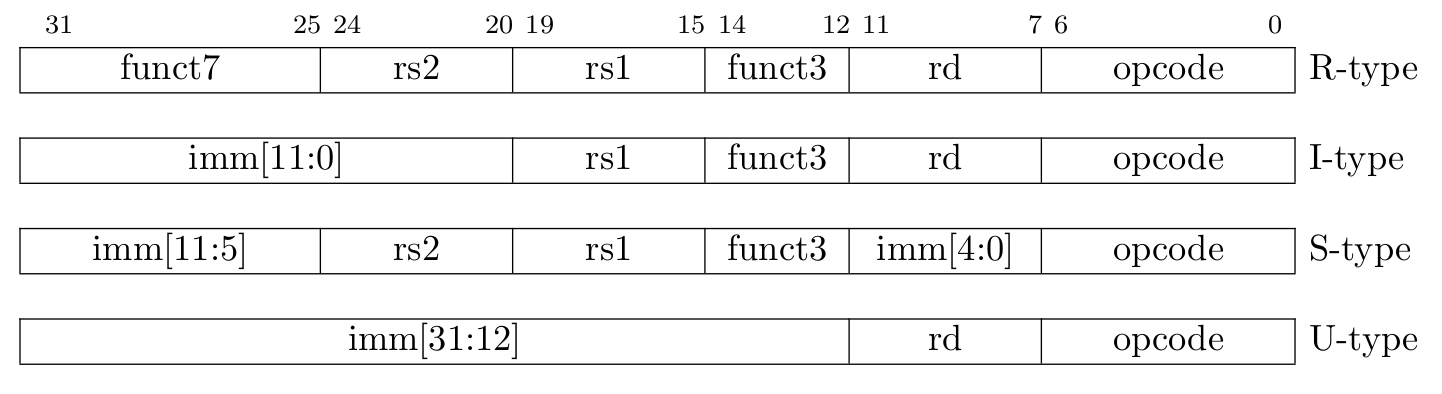
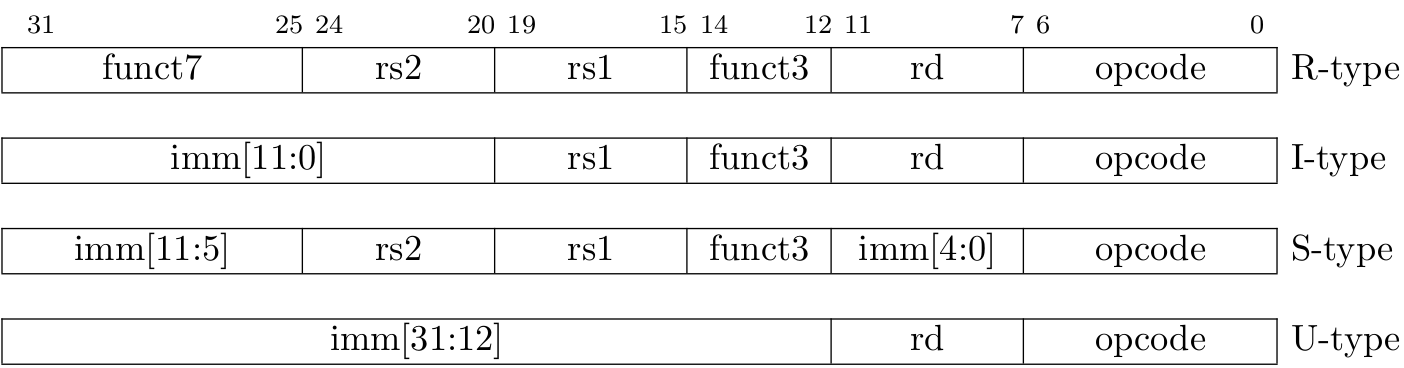
Update docu

diff --git a/documentation/Chapters/RISC.tex b/documentation/Chapters/RISC.tex
@@ -23,54 +23,61 @@ Auch wenn der Begriff \textit{reduced instruction} sich nicht zwangsweise auf di
 
 %----------------------------------------------------------------------------------------
 \section{RISC-V Varianten}
+\label{sec:erweiterung}
 
 \paragraph{Erweiterbarkeit.} Die RISC-V Architektur ist darauf ausgelegt, flexibel erweiterbar zu sein. Die Spezifikation definiert daher mehrere Teilmengen des Befehlssatzes. \cite[p. 4]{RISC}
 
-\paragraph{Mindeststandard.} Um die RISC-V Anforderungen zu erfüllen, muss eine Implementierung zumindest den Basis-Integerbefehlssatz umsetzen (Bezeichnung nach \mbox{RISC-V} Konvention: \textit{I}). Dieser enthält neben Befehlen zur Integerarithmetik, auch Integer load- und store-Befehle, sowie die notwendigen Befehle zur Manipulation des Kontrollfluss.
+\paragraph{Mindeststandard.} Um die RISC-V Anforderungen zu erfüllen, muss eine Implementierung zumindest den Basis-Integerbefehlssatz umsetzen (Bezeichnung nach \mbox{RISC-V} Konvention: \textit{I}). Dieser enthält neben Befehlen zur Integerarithmetik auch Integer load- und store-Befehle, sowie die notwendigen Befehle zur Manipulation des Kontrollfluss.
 
 \paragraph{Erweiterungen.} Die allgemeine als \textit{General Purpose} bezeichnete Architektur enthält neben diesem Mindeststandard auch Befehle für Gleitkommaarithmetik (F) mit Double(D) oder Quad-Präzision (Q), für die Handhabung verschiedener Privilegierungen (P), atomare Befehle für die Verwaltung von Nebenläufigkeit (A) und seit der neusten Version 2.1 auch für Bitmanipulation (B), Vectoroperationen (V) und einigen mehr. \cite[p. 4f.]{RISC}
 
-\paragraph{Verwendetes Subset.} In diesem Projekt wurde sich allerdings darauf beschränkt, eine einfache integerverarbeitende Mikroarchitektur umzusetzen. Als Wortbreite wurden 32bit gewählt. Die Bezeichnung des verwendeten Subsets lautet daher nach RISC-V Konvention \textit{RV32I}. \cite[p. 67ff.]{RISC}
+\paragraph{Umgesetzte Instruktionsmenge.} In diesem Projekt wurde sich allerdings darauf beschränkt, eine einfache integerverarbeitende Mikroarchitektur umzusetzen. Als Wortbreite wurden 32bit gewählt. Die Bezeichnung des verwendeten Subsets lautet daher nach RISC-V Konvention \textit{RV32I}. \cite[p. 67ff.]{RISC}
 %----------------------------------------------------------------------------------------
 
 %----------------------------------------------------------------------------------------
 \section{RV32I}
-Das verwendete Subset besteht aus $47$ verschiedenen Maschineninstruktionen.
+Das verwendete Subset besteht aus insgesamt $47$ Maschineninstruktionen. Neben Instruktionen zur Integerarithmetik, sind dabei Branch-Instruktionen und Speicherzugriffe enthalten.
 
 \subsection{Instruktionsformate}
-RV32I kennt vier verschiedene Typen, in denen Maschineninstruktionen enkodiert sein können: \textit{R-type}, \textit{I-Type}, \textit{S-type} und \textit{U-type} - Befehle. Dabei sind Opcode, sowie Ausgangsregister ($rs1$, $rs2$) und Zielregister ($rd$) der Operationen immer an der gleichen Stelle des Maschinenbefehls kodiert. Diese Einteilung in Instruktionstypen erleichtert die Dekodierung der Instruktionen und führt zu einer überschaubareren Verschaltung.
+RV32I kennt vier verschiedene Typen, in denen Maschineninstruktionen enkodiert sein können: \textit{R-type}, \textit{I-Type}, \textit{S-type} und \textit{U-type} - Befehle, siehe Abbildung \ref{fig:instr_types}. Dabei sind Opcode, sowie Ausgangsregister ($rs1$, $rs2$) und Zielregister ($rd$) der Operationen immer an der gleichen Stelle des Maschinenbefehls kodiert. Sofern ein konstanter Wert (Immediate) in der Instruktion enthalten ist, ist dieser jeweils in den höchstwertigen Bits der Instruktion enkodiert. Diese Einteilung in Instruktionstypen erleichtert die Dekodierung der Instruktionen und führt zu einer simpleren Verschaltung.
 
 \begin{figure} [ht]
   \centering
-  \includegraphics[width=0.95\textwidth]{Figures/instruction_formats}
+  \includegraphics[width=\textwidth]{Figures/instruction_formats}
   \caption{Instruktionsformate. Quelle: \citep[S. 11]{RISC}}
   \label{fig:instr_types}
 \end{figure}
 
-\paragraph{Immediate Varianten?}
-...
 
-\paragraph{R-Type.} Als R-Type sind Register-Instruktionen enkodiert, bei denen beide Operanden in Registern liegen.
+\begin{itemize}  
+\item Als R-Type sind Register-Instruktionen enkodiert, bei denen beide Operanden in Registern liegen. 
+\item Die I-Type-Kodierung ist für Instruktionen vorgesehen, bei denen ein konstanter Wert (\textit{Immediate}) mit einem Wert im Register verrechnet wird.
+\item U-Type Befehle sind bedingte und unbedingte Sprungbefehle.
+\item Der S-Type wird für schreibende Zugriffe auf den Speicher (store) verwendet. 
+\end{itemize}
 
-\paragraph{I-Type.} Die I-Type-Kodierung ist für Instruktionen vorgesehen, bei denen ein konstanter Wert (\textit{Immediate}) mit einem Wert im Register verrechnet wird.
+\subsection{Immediate-Varianten.} Außerdem existieren mehrere Varianten, um Immediates aus den Instruktionen zu Werten zu dekodieren, siehe Abbildung \ref{fig:immediates}. Diese unterschiedlichen Kodierungen sind ebenfalls so gewählt, um die Überschneidungen der einzelnen Formate zu maximieren und dadurch die Implementierung zu vereinfachen. \cite[S. 11f.]{RISC} 
 
-\paragraph{S-Type.}
+\begin{figure} [ht]
+  \centering
+  \includegraphics[width=\textwidth]{Figures/immediates}
+  \caption{Immediateenkodierungen. Quelle: \citep[S. 12]{RISC}}
+  \label{fig:immediates}
+\end{figure}
 
-\subsection{Maschineninstruktionen}
-Die in dieser Arbeit umgesetzten Instruktionen des RV32I-Standards können im einzelnen der Tabelle in Anhang \ref{Maschinenbefehle} entnommen werden.
+\subsection{Einzelne Instruktionen}
+Die in dieser Arbeit umgesetzten Instruktionen des RV32I-Standards können im einzelnen der Tabelle in Anhang \ref{Maschinenbefehle} entnommen werden. Im Folgenden sollen lediglich ein Überblick über Instruktionen geschaffen werden und ein Befehl exemplarisch im Detail dargestellt werden.
 
-Im folgenden sollen lediglich einige Instruktionen exemplarisch dargestellt werden.
-
-\subsubsection{Integerverarbeitung}
+\paragraph{Integerarithmetik.}
 Integer verarbeitende Instruktionen bestehen aus solchen, die eine Operation auf zwei Registerwerten ausführen (als R-Type kodiert) oder eine Operation auf einem Registerwert und einem Immediate (I-Type) ausführen. Das Operationsergebnis wird jeweils im Zielregister ($rd$) gespeichert.
 
 In \ref{fig:addi} ist exemplarisch der \textit{ADDI}-Befehl zu sehen. Dieser soll einen im Maschinenbefehl kodierten Immediate-Wert mit einem einem Wert in einem bestimmten Register addieren und das Ergebnis anschließend in einem Zielregister speichern.
  
-Dafür ist in der Maschineninstruktion der Opcode $0010011$ (bits $6 - 0$) kodiert, der die Information enthält, dass eine Immediateoperation durchgeführt werden soll. Die bits $14-12$ kodieren die \textit{funct3}, die die auszuführende Rechenoperation beschreibt (hier: $000$ für die Addition). Ferner ist das Zielregister $rd$, das Ausgangsregister $rs1$ und der Immediate-Wert (bit $31 - 20$) im Maschinenbefehl selbst kodiert.
+Dafür ist in der Maschineninstruktion der Opcode $0010011$ (bits $6 - 0$) kodiert, der die Information enthält, dass eine Immediateoperation durchgeführt werden soll. Die bits 14-12 kodieren die \textit{funct3}, die die auszuführende Rechenoperation beschreibt (hier: $000$ für die Addition). Ferner ist das Zielregister $rd$, das Ausgangsregister $rs1$ und der Immediate-Wert (bit $31 - 20$) im Maschinenbefehl selbst kodiert.
 
 \begin{figure} [ht]
   \centering
-  \includegraphics[width=0.95\textwidth]{Figures/ADDI}
+  \includegraphics[width=\textwidth]{Figures/ADDI}
   \caption{ADDI-Instruktion.}
   \label{fig:addi}
 \end{figure}
@@ -81,10 +88,10 @@ Es ist außerdem der spezielle \textit{LUI}-Befehl vorgesehen, der benötigt wir
 
 TODO: Register-Register
 
-\subsubsection{Kontrollfluss}
+\paragraph{Kontrollfluss.}
 Um die Reihenfolge, mit der die Maschinenbefehle ausgeführt werden zu manipulieren, existieren bedingte (\textit{BEQ, BNE, BLT, BGE}) und unbedingte (\textit{JAL, JALR}) Sprungbefehle.
 
-\subsubsection{Speicherzugriffe}
+\paragraph{Speicherzugriffe.}
 Da RISC-V als load-store-Architektur entworfen ist, sind Zugriffe auf den Speicher nur in speziellen load/store-Befehlen vorgesehen. Die \textit{load}-Instruktion lädt einen Wert aus dem Speicher in ein Register, die \textit{store}-Instruktion schreibt einen Registerinhalt an eine bestimmte Speicheradresse. RISC-V erlaubt dabei Zugriffe auf Bytes, Halfwords und Words.
 %----------------------------------------------------------------------------------------
 

diff --git a/documentation/Chapters/Ergebnis.tex b/documentation/Chapters/Ergebnis.tex
@@ -53,7 +53,14 @@ Register. Weitere Informationen hierfür sind in Kapitel
 \ref{sec:ram_register_schreibvorgaenge} zu finden.
 
 \section{Ausblick}
-%\TODO: einführende Worte
+
+Das Ziel dieses Projekts war, einfache Berechnungen auf einer eigenen Hardwareimplementierung ausführen zu können. Dieses Mindestziel wurde erreicht. Darüber hinaus sind jedoch mehrere Ansätze denkbar, das entwickelte CPU-Design fortzuführen. Diese sind unterteilbar in solche, die die Funktionalität erweitern und solche, die das bestehende Design optimieren. Da mit diesem Projekt vor allem Bildungszwecke verfolgt wurden, wurde die Priorität zunächst auf Funktionalitätsaspekte gelegt, anstatt Details des Designs zu zu optimieren.
+
+\subsection{Erweiterungen des Befehlssatz}
+
+Aufgrund der flexiblen Erweiterbarkeit der RISC-V-Architektur (siehe Kapitel \ref{sec:erweiterung} und des modularen Aufbaus dieses Projekts sind zusätzliche Instruktionen, die über den RISC-V Basisbefehlssatz hinausgehen, verhältnismäßig einfach hinzuzufügen. In der RISC-V Spezifikation sind beispielsweise Befehlssatzerweiterungen für Gleitkommaarithmetik, mehrere Privilegierungsebenen, atomare Befehle für Multikernprozessoren, aber auch für Bitmanipulation und Vektoroperationen vorgesehen. \cite[S. 4f.]{RISC} Diese Erweiterungen können je nach indvidueller Anforderungen dem Basisbfehlssatz hinzugefügt werden.
+ 
+Denkbar wäre es außerdem, das CPU_Design über RISC-V Standards hinaus individuell zu erweitern, indem eigene Maschinenbefehle definiert werden, die auf spezielle Anwendungsgebiete zugeschnitten sind.
 
 \subsection{Pipelining}
 

diff --git a/documentation/Chapters/VHDL.tex b/documentation/Chapters/VHDL.tex
@@ -25,7 +25,7 @@ Um komplexe Schaltungen hierarchisch zu gliedern, kann die Architecture auch als
 \section{Umsetzung von VHDL}
 Auf die konkrete Umsetzung der beschriebenen Schaltung hat der Anwender dabei nur bedingten Einfluss, da die Implementierung der Schaltung in Hardware selbst üblicherweise von automatisierten Werkzeugen durchgeführt wird. Dabei lassen sich mehrere Schritte unterscheiden. In diesem Projekt wurde die Entwicklungsumgebung Vivado Design Suite von Xilinx verwendet, um den VHDL-Code umzusetzen.
 
-\paragraph{Simulation.} In einem ersten Schritt kann das Verhalten des VHDL Codes \emph{simuliert} werden, was vor allem in der Testphase von Bedeutung ist. Dabei wird der Code noch nicht auf der Hardware ausgeführt, sondern das Verhalten der Schaltung mittels sogenannter Testbenches simuliert, die die Schaltung mit virtuellen Eingangssignalen (z. B. Taktrate) versorgen. \cite[S. 81]{SynthesisFPGA}
+\paragraph{Simulation.} In einem ersten Schritt kann das Verhalten des VHDL Codes \emph{simuliert} werden, was vor allem in der Testphase von Bedeutung ist. Dabei wird der Code noch nicht auf der Hardware ausgeführt, sondern das Verhalten der Schaltung mittels sogenannter Testbenches simuliert, die die Schaltung mit virtuellen Eingangssignalen (z. B. Taktrate) versorgen. \cite[S. 81]{SynthesisFPGA} \ref{testbench}
 
 \begin{figure} [ht]
   \centering
